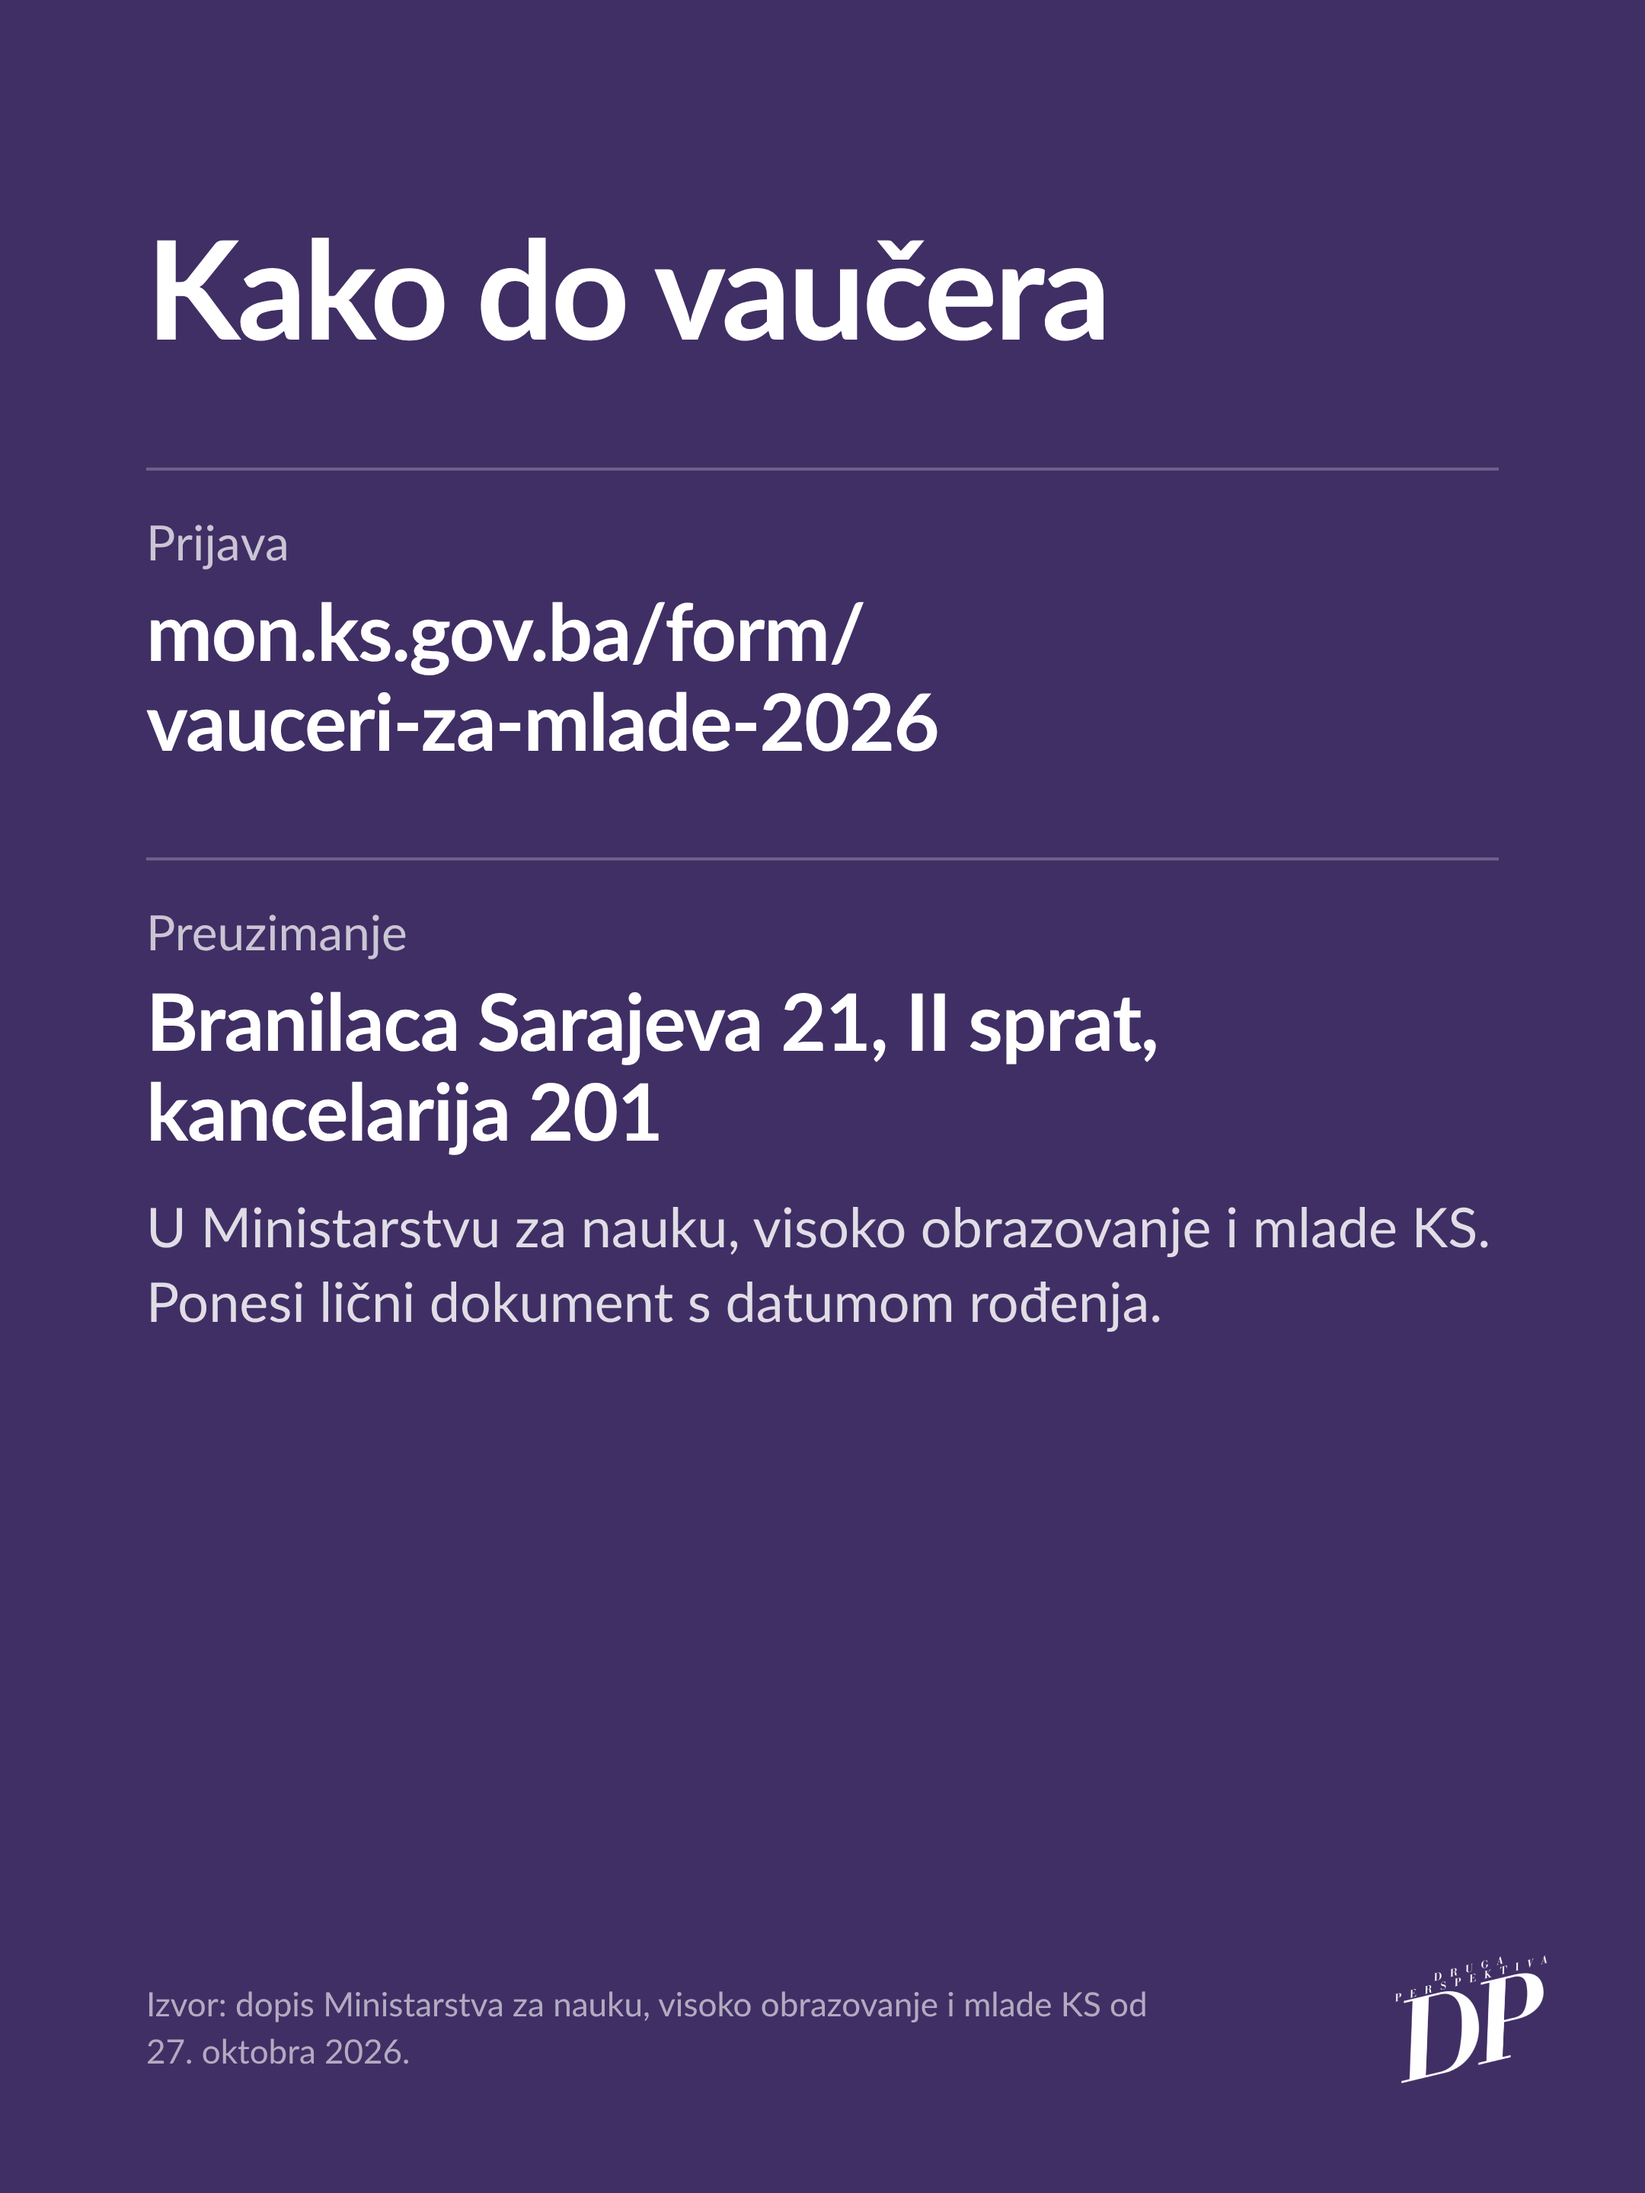
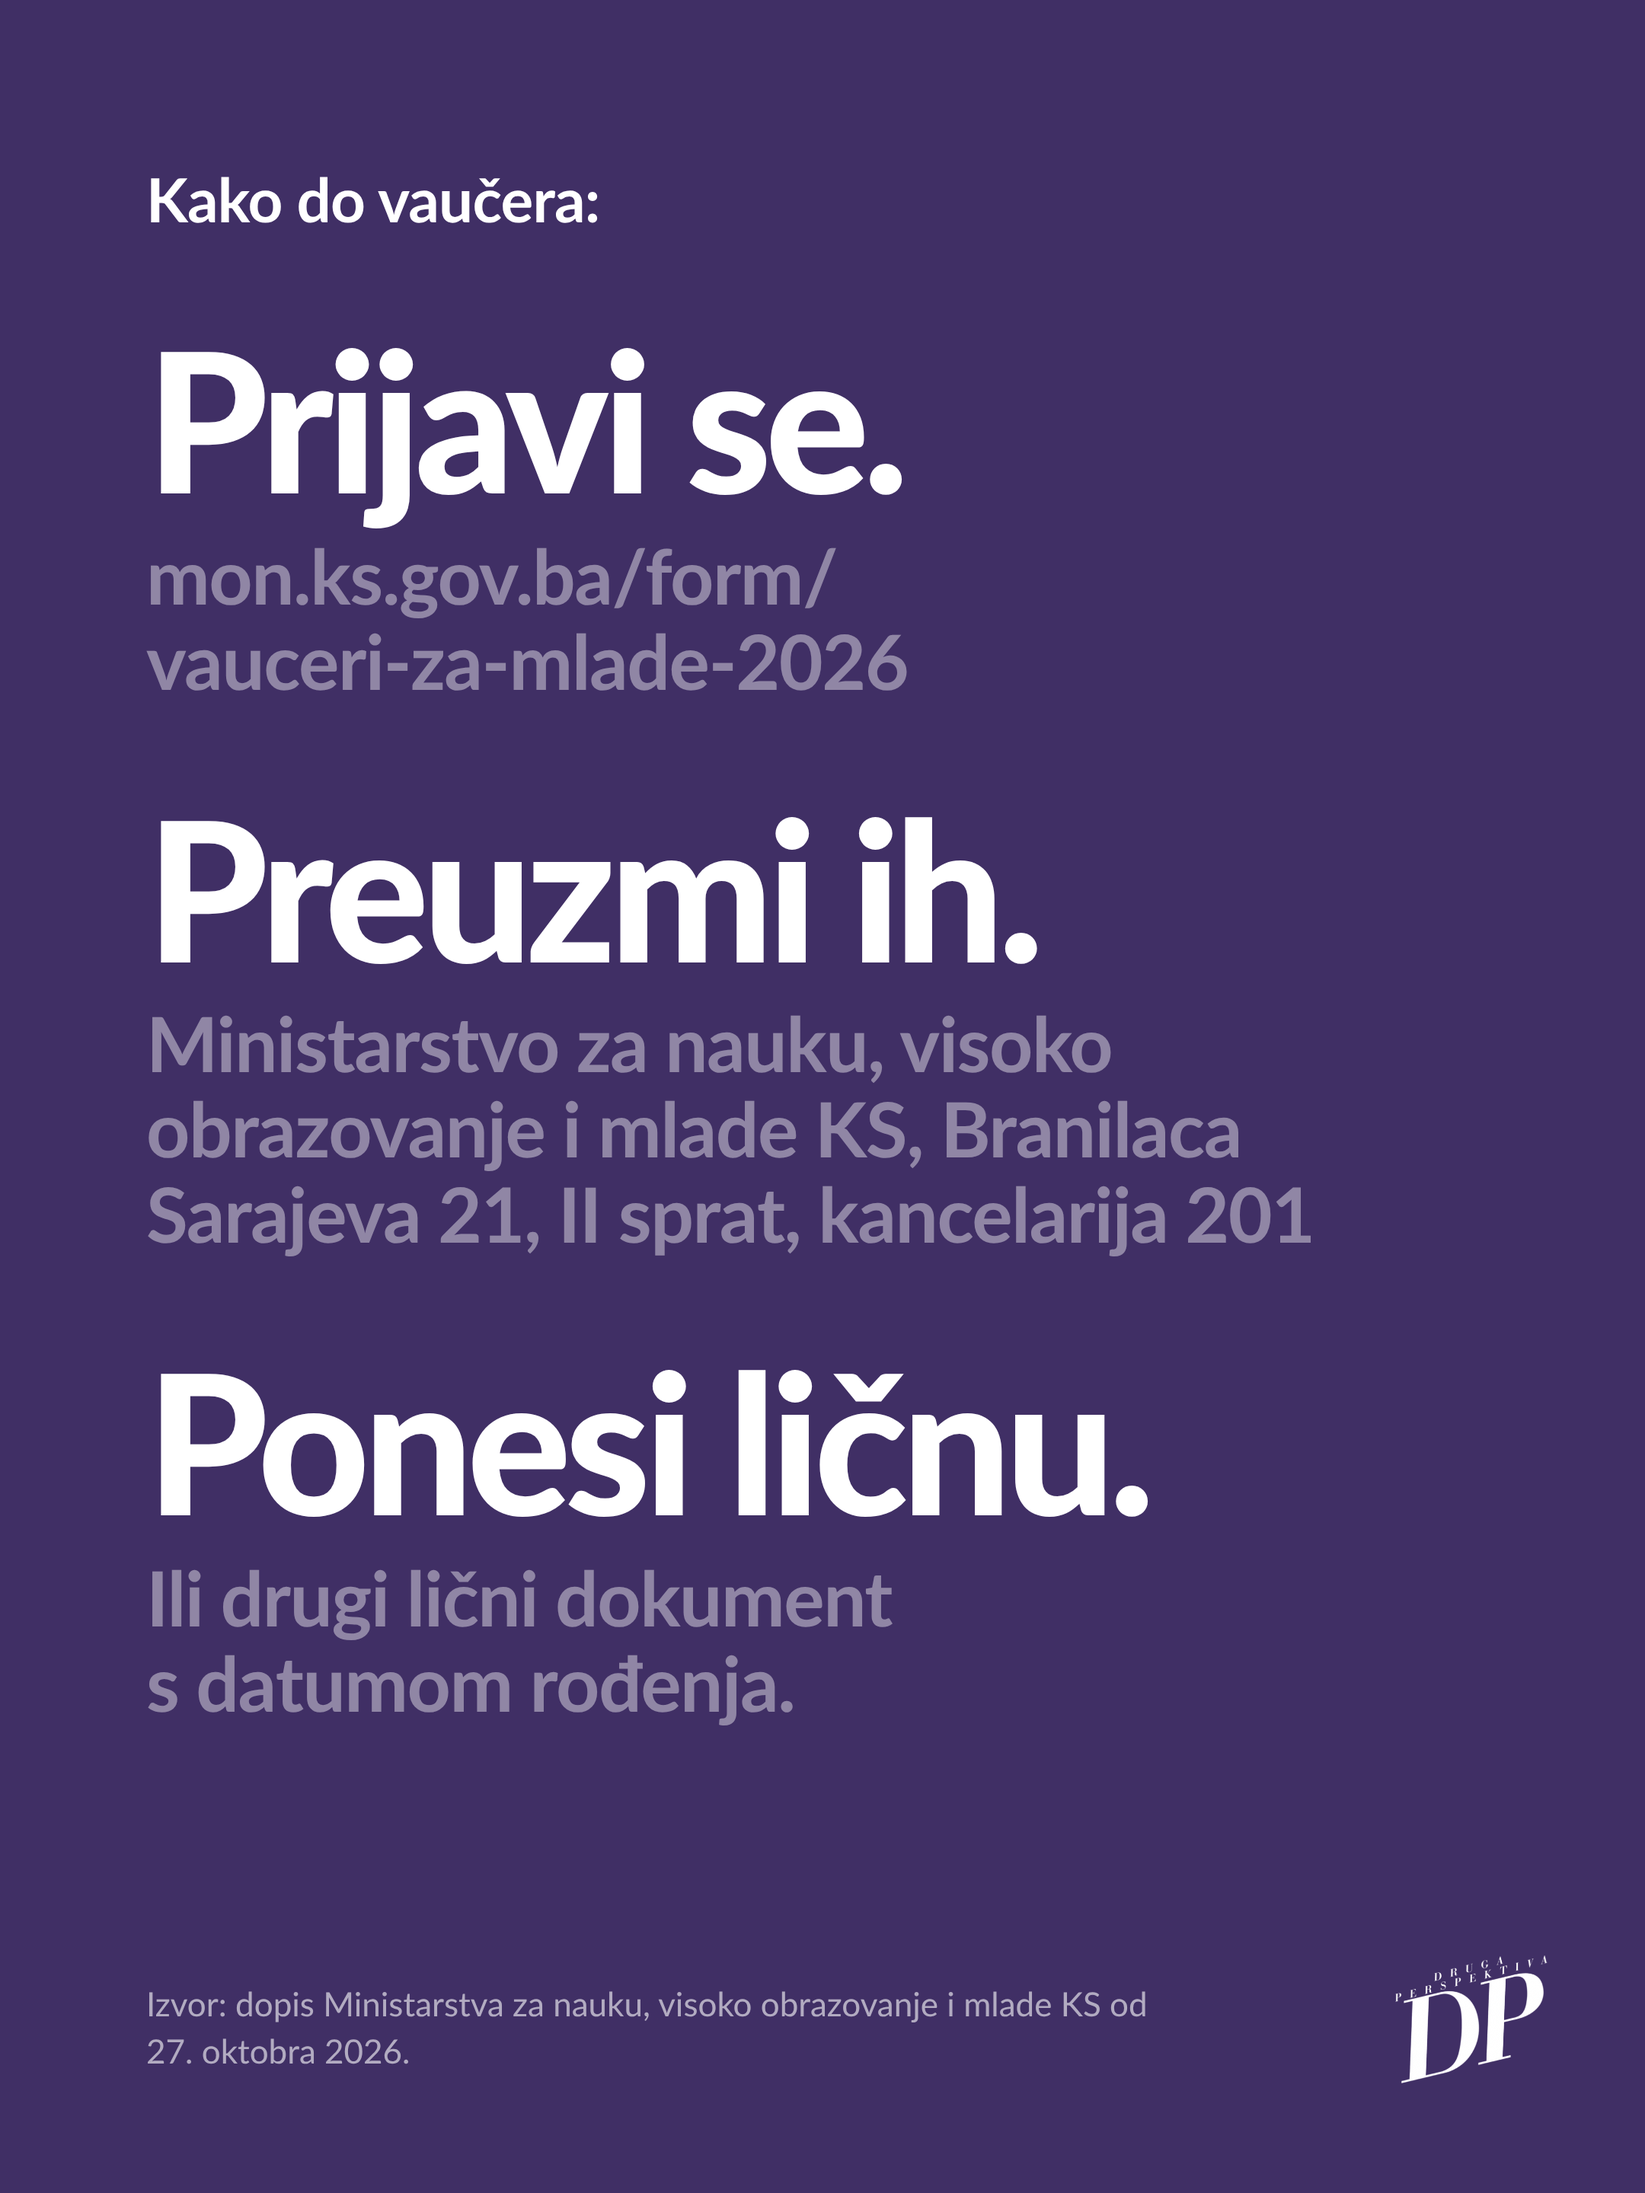
Vaučeri za mlade: konačni niz u stilu plakata
Claude-Session: https://claude.ai/code/session_01SB3ebjUddtcZXLP7FT1aSs

Changed region(s): [[0.0931, 0.375, 0.8375, 0.7812], [0.0931, 0.0625, 0.6824, 0.3438], [0.8685, 0.5312, 0.8995, 0.5625]]

diff --git a/promo/vauceri-za-mlade/dizajn.html b/promo/vauceri-za-mlade/dizajn.html
@@ -74,85 +74,62 @@ body { background: #777; font-family: "Lato", sans-serif; color: #fff; padding: 
 }
 
 
-/* ---- Vaučeri za mlade ---- */
-/* Slajd 2: izjava na plavoj, kao odobreni „Mir se ne čeka“ */
-.s1 { background: var(--plava); padding: 190px 96px 0; }
-.s1 .izjava { font-size: 172px; }
-.s1 .tekst { position: absolute; left: 96px; right: 240px; bottom: 72px; font-size: 38px; color: rgba(255,255,255,.92); }
 
-/* Slajd 3: crno-bijela fotografija + ljubičasti panel */
-.s2 .slika { position: absolute; left: 0; top: 0; width: 100%; height: 600px; object-fit: cover; object-position: 50% 72%; }
-.s2 .potpis { bottom: 200px; }
-.s2 .panel { position: absolute; left: 0; right: 0; top: 600px; bottom: 0; padding: 64px 96px 0; }
-.s2 .naslov { font-size: 80px; }
-.s2 .kolone { display: grid; grid-template-columns: 1fr 1fr; gap: 48px; margin-top: 40px; }
-.s2 .mali { font-size: 28px; color: var(--mekano); padding-bottom: 12px; border-bottom: 2px solid var(--linija); }
-.s2 ul { list-style: none; padding: 0; }
-.s2 li { font-size: 33px; line-height: 1.18; padding: 14px 0; border-bottom: 2px solid var(--linija); }
-.s2 .nagrada { position: absolute; left: 96px; bottom: 76px; font-size: 34px; line-height: 1.25; color: rgba(255,255,255,.92); border-left: 12px solid var(--narandza); padding-left: 28px; }
-.s2 .nagrada b { color: #fff; }
+/* ---- Vaučeri za mlade: veliki Lato Black, naizmjenično bijelo i blijedo ---- */
+.blijedo { color: rgba(255,255,255,.42); }
 
-/* Slajd 4: tekst s linijama */
-.s3 { padding: 150px 96px 0; }
-.s3 .naslov { font-size: 90px; }
-.s3 .red { margin-top: 64px; border-top: 2px solid var(--linija); padding-top: 30px; }
-.s3 .red + .red { margin-top: 56px; }
-.s3 .sta { font-size: 32px; color: var(--mekano); }
-.s3 .vrijednost { font-size: 52px; font-weight: 700; line-height: 1.14; letter-spacing: -0.015em; margin-top: 12px; }
-.s3 .tekst { font-size: 36px; margin-top: 20px; }
+/* Slajd 2: fotografija preko cijelog slajda */
+.c .prelaz { height: 74%; }
+.c .dno { position: absolute; left: 64px; right: 64px; bottom: 132px; }
+.c .izjava { font-size: 150px; }
+.c .tekst { margin-top: 28px; font-size: 36px; color: rgba(255,255,255,.9); }
+
+/* Slajd 3: plakat s imenima */
+.a { padding: 110px 80px 0 96px; }
+.a .uvod { font-size: 40px; font-weight: 700; letter-spacing: -0.01em; }
+.a .imena { margin-top: 44px; font-size: 86px; font-weight: 900; line-height: .98; letter-spacing: -0.03em; }
+.a .imena span { white-space: nowrap; }
+.a .imena span:nth-child(even) { color: rgba(255,255,255,.42); }
+.a .dno { position: absolute; left: 96px; right: 200px; bottom: 76px; font-size: 34px; line-height: 1.3; color: rgba(255,255,255,.9); }
+.a .dno b { border-left: 12px solid var(--narandza); padding-left: 24px; display: block; }
+
+/* Slajd 4: kako do vaučera, isti ritam */
+.k { padding: 110px 80px 0 96px; }
+.k .uvod { font-size: 40px; font-weight: 700; letter-spacing: -0.01em; }
+.k .veliko { font-size: 128px; font-weight: 900; line-height: .95; letter-spacing: -0.035em; margin-top: 56px; }
+.k .veliko:first-of-type { margin-top: 44px; }
+.k .detalj { font-size: 50px; font-weight: 700; line-height: 1.12; letter-spacing: -0.015em; margin-top: 18px; }
 .izvor { position: absolute; left: 96px; right: 240px; bottom: 76px; font-size: 22px; line-height: 1.4; color: rgba(255,255,255,.6); }
 </style>
 </head>
 <body>
 
-<section class="slide post s1">
-	<p class="izjava">Devet ulaznica. Svaka za dvoje.</p>
-	<p class="tekst">Poklon za 18. rođendan svima rođenim 2008. koji žive u&nbsp;Kantonu Sarajevo.</p>
+<section class="slide post c">
+	<img class="foto" src="muzej.jpg" alt="Historijski muzej Bosne i Hercegovine 1963. godine">
+	<div class="prelaz"></div>
+	<div class="dno">
+		<p class="izjava">Devet ulaznica. Svaka za dvoje.</p>
+		<p class="tekst">Poklon za 18. rođendan svima rođenim 2008. koji žive u&nbsp;Kantonu Sarajevo.</p>
+	</div>
 	<img class="logo" src="../../dp-objave/assets/logo-bijeli.png" alt="">
-</section>
-
-<section class="slide post s2">
-	<img class="slika" src="muzej.jpg" alt="Historijski muzej Bosne i Hercegovine 1963. godine">
 	<div class="potpis">Foto: Boris Magaš, CC BY-SA 4.0</div>
-	<div class="panel">
-		<h2 class="naslov">Gdje vrijede</h2>
-		<div class="kolone">
-			<div>
-				<p class="mali">Pozorišta</p>
-				<ul>
-					<li>Narodno pozorište</li>
-					<li>Pozorište mladih</li>
-					<li>Sarajevski ratni teatar SARTR</li>
-					<li>Kamerni teatar 55</li>
-				</ul>
-			</div>
-			<div>
-				<p class="mali">Muzeji</p>
-				<ul>
-					<li>Zemaljski muzej BiH</li>
-					<li>Historijski muzej BiH</li>
-					<li>Muzej Sarajeva</li>
-					<li>Muzej ratnog djetinjstva</li>
-					<li>Muzej Planet Sarajevo</li>
-				</ul>
-			</div>
-		</div>
-	</div>
-	<p class="nagrada"><b>Iskoristiš svih devet?</b> Čeka te posebna nagrada.</p>
+</section>
+
+<section class="slide post a">
+	<p class="uvod">Ulaznice vrijede za:</p>
+	<p class="imena"><span>Narodno pozorište</span> <span>Pozorište mladih</span> <span>SARTR</span> <span>Kamerni teatar&nbsp;55</span> <span>Zemaljski muzej</span> <span>Historijski muzej</span> <span>Muzej Sarajeva</span> <span>Muzej ratnog djetinjstva</span> <span>Planet Sarajevo</span></p>
+	<p class="dno"><b>Iskoristiš svih devet? Čeka te posebna nagrada.</b></p>
 	<img class="logo" src="../../dp-objave/assets/logo-bijeli.png" alt="">
 </section>
 
-<section class="slide post s3">
-	<h2 class="naslov">Kako do vaučera</h2>
-	<div class="red">
-		<p class="sta">Prijava</p>
-		<p class="vrijednost">mon.ks.gov.ba/form/<br>vauceri-za-mlade-2026</p>
-	</div>
-	<div class="red">
-		<p class="sta">Preuzimanje</p>
-		<p class="vrijednost">Branilaca Sarajeva 21, II&nbsp;sprat, kancelarija&nbsp;201</p>
-		<p class="tekst">U Ministarstvu za nauku, visoko obrazovanje i mlade KS. Ponesi lični dokument s&nbsp;datumom rođenja.</p>
-	</div>
+<section class="slide post k">
+	<p class="uvod">Kako do vaučera:</p>
+	<p class="veliko">Prijavi se.</p>
+	<p class="detalj blijedo">mon.ks.gov.ba/form/<br>vauceri-za-mlade-2026</p>
+	<p class="veliko">Preuzmi ih.</p>
+	<p class="detalj blijedo">Ministarstvo za nauku, visoko obrazovanje i&nbsp;mlade KS, Branilaca Sarajeva&nbsp;21, II&nbsp;sprat, kancelarija&nbsp;201</p>
+	<p class="veliko">Ponesi ličnu.</p>
+	<p class="detalj blijedo">Ili drugi lični dokument s&nbsp;datumom&nbsp;rođenja.</p>
 	<p class="izvor">Izvor: dopis Ministarstva za nauku, visoko obrazovanje i mlade KS od 27.&nbsp;oktobra 2026.</p>
 	<img class="logo" src="../../dp-objave/assets/logo-bijeli.png" alt="">
 </section>
